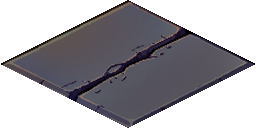
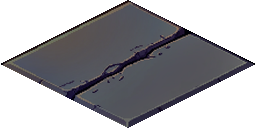
Isométrico: 7 losas de la zona 1 (musgo, huesos, piedrecitas, runa) con mezcla ponderada y tono común
Claude-Session: https://claude.ai/code/session_0196gNip9NGTyAzzxweUdqYK

diff --git a/src/render/board.ts b/src/render/board.ts
@@ -50,7 +50,9 @@ const art = (src: string): HTMLImageElement | null => { if (typeof Image === 'un
 const Z1 = { floor: art('tiles/z1_floor.png'), pillar: art('tiles/z1_pillar.png') };
 const ready = (i: HTMLImageElement | null): i is HTMLImageElement => !!i && i.complete && i.naturalWidth > 0;
 /** Arte isométrico de la zona 1 (lote 1): pilares de 256 px de ancho con la base en el borde inferior. */
-const ISO1 = { pillars: [art('iso/z1/pillar_01.png'), art('iso/z1/pillar_02.png')], floors: [art('iso/z1/floor_01.png'), art('iso/z1/floor_02.png'), art('iso/z1/floor_03.png')] };
+const ISO1 = { pillars: [art('iso/z1/pillar_01.png'), art('iso/z1/pillar_02.png')], floors: [1, 2, 3, 4, 5, 6, 7].map((n) => art(`iso/z1/floor_0${n}.png`)) };
+/** Frecuencia de cada losa (índices de ISO1.floors): las lisas y la de piedrecitas son las normales; musgo, huesos y runa, raras. */
+const FLOOR_MIX = [0, 1, 2, 0, 1, 2, 0, 1, 2, 5, 5, 5, 0, 1, 2, 3, 4, 6];
 /** variante fija por casilla */
 const pick = <T,>(list: T[], x: number, y: number): T => list[(((x * 73856093) ^ (y * 19349663)) >>> 0) % list.length]!;
 const STATUS_COLOR: Record<string, string> = { burn: '#ff8a30', poison: '#7fe05a', slow: '#8ae0ff', stun: '#ffe84a', mark: '#ff5ad0', charm: '#ff9ad8', vuln: '#c9a0ff', bleed: '#e03040', hobble: '#9ad0e8', guarded: '#7fe0b0', deathmark: '#ff3a4a', verdugo: '#ff8a30', frenzy: '#ff5030', orbita: '#b07cff', chained: '#a0a8c0', rooted: '#c89a5a', anchor: '#5ac8ff', silver: '#e0e8ff', smoke: '#9a8ab8', immune: '#7ae8ff', kinetic: '#58a6ff', prism: '#c8a0ff', fading: '#b0b8d0' };
@@ -395,7 +397,7 @@ export class Board {
     for (let y = 0; y < c.h; y++)
       for (let x = 0; x < c.w; x++) {
         if (pit.has(`${x},${y}`)) continue;
-        const img = pick(ISO1.floors, x, y)!, p = isoPoint(x + 0.5, y + 0.5, c.h);
+        const img = ISO1.floors[pick(FLOOR_MIX, x, y)]!, p = isoPoint(x + 0.5, y + 0.5, c.h);
         const flip = ((x * 31 + y * 17) & 1) === 1;
         g.save(); g.translate(p.x + sx, p.y + sy); if (flip) g.scale(-1, 1);
         // un píxel de más para que no se vean juntas finas entre rombos

diff --git a/tools/arte/losa_iso.py b/tools/arte/losa_iso.py
@@ -16,7 +16,12 @@ L = col_top(xs.min(), 'l'); R = col_top(xs.max(), 'r')
 thick = ((col_bot(xs.min(), 'l') - L[1]) + (col_bot(xs.max(), 'r') - R[1])) / 2
 T = (xs[ys.argmin()], ys.min())
 # esquina de abajo de la cara superior: el punto más bajo menos el grosor
-bx = xs[ys.argmax()]; B = (bx, ys.max() - thick)
+# esquinas a mano (sobre la imagen de entrada): --pts Lx,Ly,Tx,Ty,Rx,Ry
+if '--pts' in sys.argv:
+    v = [float(n) for n in sys.argv[sys.argv.index('--pts') + 1].split(',')]
+    L, T, R = (v[0], v[1]), (v[2], v[3]), (v[4], v[5])
+# la cara de arriba es un paralelogramo: la esquina de abajo es L + R - T
+B = (L[0] + R[0] - T[0], L[1] + R[1] - T[1])
 print('L', L, 'T', T, 'R', R, 'B', B, 'grosor', round(thick))
 # transformación de perspectiva: rombo 256x128 <- cuadrilátero de la cara superior
 dstp = [(0, 64), (128, 0), (256, 64), (128, 128)]; srcp = [L, T, R, B]
@@ -47,9 +52,20 @@ def blur(arr):
     return arr
 m = blur(mk) + 1e-3
 low = np.dstack([blur(rgb[..., k]) / m for k in range(3)]) + 1
-flat = rgb / low
-target = np.array([84, 80, 90], float)  # piedra oscura con un toque violeta, como el suelo actual
-res = np.clip(flat * target, 0, 255).astype(np.uint8)
+inside = mk > 0
+if '--color' in sys.argv:
+    # conserva el color (musgo, runas…): solo suaviza el degradado de brillo
+    lum = rgb.mean(axis=2)
+    lowl = blur(lum) / m + 1
+    k = (lum[inside].mean() / lowl) ** 0.6
+    res = rgb * k[..., None]
+else:
+    # quita el degradado de luz de cada canal (luz pintada en la losa)
+    res = rgb / low * 82
+# mismo tono medio para todas las losas (conserva las diferencias: musgo, runas, huesos)
+TONE = np.array([79, 78, 85], float)
+res = res + (TONE - res[inside].mean(axis=0))
+res = np.clip(res, 0, 255).astype(np.uint8)
 # máscara del rombo exacto
 yy, xx = np.mgrid[0:128, 0:256]
 mask = (np.abs(xx - 127.5) / 128 + np.abs(yy - 63.5) / 64) <= 1.0

diff --git a/tools/arte/LEEME.md b/tools/arte/LEEME.md
@@ -3,10 +3,14 @@
 No forman parte del juego ni de la compilación (Python 3 con Pillow y numpy).
 
 - `recortar_fondo.py ENTRADA SALIDA TOLERANCIA`: quita el fondo (color plano, oscuro o cuadriculado gris pintado) rellenando desde los bordes y recorta la imagen al contenido. Tolerancia habitual: 40.
-- `losa_iso.py ENTRADA SALIDA`: de una losa con grosor (ya sin fondo) saca solo la cara de arriba, la ajusta al rombo de 256×128, quita el degradado de luz y la lleva al gris piedra del suelo.
+- `losa_iso.py ENTRADA SALIDA [--color] [--pts Lx,Ly,Tx,Ty,Rx,Ry]`: de una losa con grosor (ya sin fondo) saca solo la cara de arriba, la ajusta al rombo de 256×128, quita el degradado de luz y la lleva al gris piedra del suelo.
 
 Ejemplo:
 ```
 python3 recortar_fondo.py losa.webp losa_sin_fondo.png 40
 python3 losa_iso.py losa_sin_fondo.png ../../public/iso/z1/floor_04.png
 ```
+
+- `--color`: para losas que ya vienen con luz pareja y tienen color propio (musgo, runas): solo suaviza el brillo.
+- `--pts`: esquinas izquierda, superior y derecha de la cara de arriba, marcadas a mano sobre la imagen de entrada, para cuando la base sobresale y la detección automática falla.
+- Todas las losas se llevan al mismo tono medio para que no se vean parches.

diff --git a/PROMPTS_ARTE.md b/PROMPTS_ARTE.md
@@ -11,7 +11,7 @@ Las partes van en orden de prioridad. Con las partes 1 a 3 la sala de la zona 1 
 
 ---
 
-## PARTE 1: Losas del suelo (5 imágenes)
+## PARTE 1: Losas del suelo (5 imágenes) ✅ hecha (falta `floor_08`, opcional)
 
 Me pasas: `floor_04` … `floor_08`. Son iguales que las que ya hiciste, cambiando el detalle. El grosor y la luz los arreglo yo.
 
